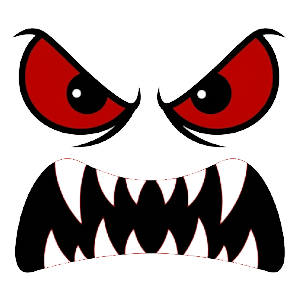
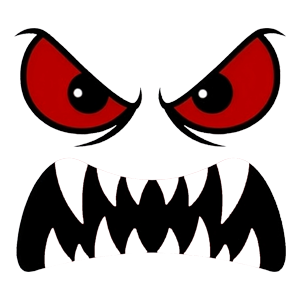
Add files via upload

diff --git a/src/Ghost.js b/src/Ghost.js
@@ -7,6 +7,7 @@ export class Ghost {
         this.cellSize = cellSize;
         this.offsetX = offsetX;
         this.offsetZ = offsetZ;
+        this.levelMap = levelMap;
         
         // Moduli delegati
         this.pathfinder = new Pathfinding(levelMap, cellSize, offsetX, offsetZ);
@@ -15,6 +16,7 @@ export class Ghost {
         this.mesh = model.mesh;
         this.faceMat = model.faceMat;
         this.textures = model.textures;
+        this.ghostMat = model.ghostMat;
         
         this.mesh.position.set(startX, 1.0, startZ);
         scene.add(this.mesh);
@@ -46,7 +48,7 @@ export class Ghost {
             this.audioNormal.setBuffer(buffer);
             this.audioNormal.setRefDistance(3);
             this.audioNormal.setLoop(true);
-            if (this.state !== 'HUNT') this.audioNormal.play();
+            if (this.state !== 'HUNT' && this.state !== 'STUNNED') this.audioNormal.play();
         });
 
         audioLoader.load('../assets/fast.mp3', (buffer) => {
@@ -66,11 +68,34 @@ export class Ghost {
         this.mesh.add(this.audioAlert);
     }
 
+    takeDamage() {
+        // Se non è già stordito, cambia lo stato
+        if (this.state !== 'STUNNED') {
+            this.changeState('STUNNED');
+        }
+    }
+
     changeState(newState) {
         if (this.state === newState) return; 
         this.state = newState;
 
-        if (this.state === 'HUNT') {
+        // Reset visivo base per tutti gli stati normali
+        this.ghostMat.color.setHex(0xffffff);
+        this.ghostMat.opacity = 1.0;
+
+        if (this.state === 'STUNNED') {
+            this.faceMat.map = this.textures.stunned;
+            this.lightColor.setHex(0x000000);
+            this.ghostMat.color.setHex(0x3366ff);
+            this.ghostMat.opacity = 0.5;
+            this.speed = this.huntSpeed;
+            
+            // Disattiva tutti i suoni che provengono dal fantasma
+            if (this.audioNormal.isPlaying) this.audioNormal.pause();
+            if (this.audioFast.isPlaying) this.audioFast.pause();
+            if (this.audioAlert.isPlaying) this.audioAlert.pause();
+
+        } else if (this.state === 'HUNT') {
             this.faceMat.map = this.textures.angry;
             this.lightColor.setHex(0xff0000); 
             this.speed = this.huntSpeed;
@@ -83,7 +108,7 @@ export class Ghost {
             this.speed = this.baseSpeed;
             if (this.audioFast.isPlaying) this.audioFast.pause();
             if (this.audioNormal.buffer && !this.audioNormal.isPlaying) this.audioNormal.play();
-        } else { 
+        } else { // PATROL
             this.faceMat.map = this.textures.normal;
             this.lightColor.setHex(0xaaffff); 
             this.speed = this.baseSpeed;
@@ -93,7 +118,9 @@ export class Ghost {
     }
 
     hearNoise(worldX, worldZ, noiseRadius) {
-        if (this.state === 'HUNT') return; 
+        // Ignora i rumori se sta cacciando o se è già stordito e sta scappando
+        if (this.state === 'HUNT' || this.state === 'STUNNED') return; 
+        
         const dist = Math.hypot(this.mesh.position.x - worldX, this.mesh.position.z - worldZ);
         if (dist <= noiseRadius) {
             this.investigateTargetGrid = this.pathfinder.getGridPos(worldX, worldZ);
@@ -115,16 +142,18 @@ export class Ghost {
         const playerGridPos = this.pathfinder.getGridPos(playerPos.x, playerPos.z);
         
         // --- 1. CONTROLLO VISIONE ---
-        const distToPlayer = this.mesh.position.distanceTo(playerPos);
-        if (distToPlayer < 20.0) {
-            const toPlayer = new THREE.Vector3().subVectors(playerPos, this.mesh.position).normalize();
-            toPlayer.y = 0; 
-            const forward = new THREE.Vector3(0, 0, -1).applyQuaternion(this.mesh.quaternion);
-            
-            if (forward.dot(toPlayer) > 0.6) { 
-                if (this.pathfinder.checkLineOfSight(gridPos.x, gridPos.z, playerGridPos.x, playerGridPos.z)) {
-                    this.lastSeenPlayerGrid = { x: playerGridPos.x, z: playerGridPos.z };
-                    this.changeState('HUNT');
+        if (this.state !== 'STUNNED') {
+            const distToPlayer = this.mesh.position.distanceTo(playerPos);
+            if (distToPlayer < 20.0) {
+                const toPlayer = new THREE.Vector3().subVectors(playerPos, this.mesh.position).normalize();
+                toPlayer.y = 0; 
+                const forward = new THREE.Vector3(0, 0, -1).applyQuaternion(this.mesh.quaternion);
+                
+                if (forward.dot(toPlayer) > 0.6) { 
+                    if (this.pathfinder.checkLineOfSight(gridPos.x, gridPos.z, playerGridPos.x, playerGridPos.z)) {
+                        this.lastSeenPlayerGrid = { x: playerGridPos.x, z: playerGridPos.z };
+                        this.changeState('HUNT');
+                    }
                 }
             }
         }
@@ -138,7 +167,23 @@ export class Ghost {
             this.lastDecisionGrid = { x: gridPos.x, z: gridPos.z };
             let decided = false;
 
-            if (this.state === 'HUNT' && this.lastSeenPlayerGrid) {
+            if (this.state === 'STUNNED') {
+                // Calcola dinamicamente il centro della mappa
+                const centerX = Math.floor(this.levelMap[0].length / 2);
+                const centerZ = Math.floor(this.levelMap.length / 2);
+
+                if (gridPos.x === centerX && gridPos.z === centerZ) {
+                    // È arrivato alla base centrale! Si riattiva istantaneamente
+                    this.changeState('PATROL');
+                    // 'decided' rimane false in modo che scelga una direzione casuale per uscire dalla stanza
+                } else {
+                    const path = this.pathfinder.findPath(gridPos.x, gridPos.z, centerX, centerZ);
+                    if (path && path.length > 0) {
+                        this.direction = path[0]; 
+                        decided = true;
+                    }
+                }
+            } else if (this.state === 'HUNT' && this.lastSeenPlayerGrid) {
                 const path = this.pathfinder.findPath(gridPos.x, gridPos.z, this.lastSeenPlayerGrid.x, this.lastSeenPlayerGrid.z);
                 if (path && path.length > 0) {
                     this.direction = path[0]; 

diff --git a/src/Weapon.js b/src/Weapon.js
@@ -1,0 +1,87 @@
+import * as THREE from 'three';
+
+export class Weapon {
+    constructor(camera, audioListener) {
+        this.camera = camera;
+        this.mesh = this.createModel();
+        this.camera.add(this.mesh);
+        this.mesh.position.set(0.3, -0.3, -0.6);
+
+        // -- Setup Raycaster per mirare --
+        this.raycaster = new THREE.Raycaster();
+        // Il centro dello schermo in coordinate normalizzate
+        this.centerScreen = new THREE.Vector2(0, 0); 
+
+        // -- Setup Audio --
+        this.shootSound = new THREE.Audio(audioListener);
+        const audioLoader = new THREE.AudioLoader();
+        audioLoader.load('../assets/shoot.mp3', (buffer) => {
+            this.shootSound.setBuffer(buffer);
+            this.shootSound.setVolume(0.5);
+        });
+
+        // -- Gestione Rateo di Fuoco --
+        this.canShoot = true;
+        this.fireRate = 1000; // 1 secondo tra un colpo e l'altro (rateo lento)
+    }
+
+    createModel() {
+        const group = new THREE.Group();
+        const material = new THREE.MeshBasicMaterial({ color: 0x222222 });
+
+        const barrelGeo = new THREE.BoxGeometry(0.1, 0.1, 0.4);
+        const barrel = new THREE.Mesh(barrelGeo, material);
+        barrel.position.z = -0.1;
+        group.add(barrel);
+
+        const handleGeo = new THREE.BoxGeometry(0.1, 0.2, 0.1);
+        const handle = new THREE.Mesh(handleGeo, material);
+        handle.position.y = -0.15;
+        handle.position.z = 0.05;
+        handle.rotation.x = Math.PI / 8;
+        group.add(handle);
+
+        return group;
+    }
+
+    shoot(ghosts) {
+        if (!this.canShoot) return;
+
+        // 1. Riproduci audio e applica cooldown
+        if (this.shootSound.isPlaying) this.shootSound.stop();
+        if (this.shootSound.buffer) this.shootSound.play();
+        
+        this.canShoot = false;
+        setTimeout(() => { this.canShoot = true; }, this.fireRate);
+
+        // 2. Anima leggermente l'arma per il rinculo
+        this.mesh.position.z += 0.1;
+        this.mesh.rotation.x += 0.1;
+        setTimeout(() => { 
+            this.mesh.position.z -= 0.1; 
+            this.mesh.rotation.x -= 0.1; 
+        }, 100);
+
+        // 3. Raycasting: Controlla se abbiamo colpito un fantasma
+        this.raycaster.setFromCamera(this.centerScreen, this.camera);
+        
+        // Estraiamo le mesh dei fantasmi per il raycaster
+        const ghostMeshes = ghosts.map(g => g.mesh);
+        const intersects = this.raycaster.intersectObjects(ghostMeshes, true);
+
+        if (intersects.length > 0) {
+            const hitMesh = intersects[0].object;
+            const hitGhost = ghosts.find(g => g.mesh === hitMesh || g.mesh.children.includes(hitMesh));
+            
+            if (hitGhost) {
+                console.log("Fantasma colpito e stordito!");
+                hitGhost.takeDamage();
+            }
+        }
+
+        // 4. PROPAGAZIONE DEL RUMORE
+        ghosts.forEach(ghost => {
+            ghost.hearNoise(this.camera.position.x, this.camera.position.z, 100.0);
+        });
+    }
+}

diff --git a/src/GhostModel.js b/src/GhostModel.js
@@ -2,7 +2,12 @@ import * as THREE from 'three';
 
 export function createGhostMesh() {
     const mesh = new THREE.Group();
-    const ghostMat = new THREE.MeshBasicMaterial({ color: 0xffffff });
+    
+    const ghostMat = new THREE.MeshBasicMaterial({ 
+        color: 0xffffff,
+        transparent: true,
+        opacity: 1.0
+    });
     
     // Testa
     const headGeo = new THREE.SphereGeometry(0.5, 32, 8, 0, Math.PI * 2, 0, Math.PI / 2);
@@ -25,7 +30,6 @@ export function createGhostMesh() {
         }
     }
     
-    // 2. Diciamo a Three.js di aggiornare la geometria dopo averla alterata a mano
     posAttribute.needsUpdate = true;
     bodyGeo.computeVertexNormals();
     
@@ -37,7 +41,8 @@ export function createGhostMesh() {
     const textures = {
         normal: textureLoader.load('../assets/normal.png'),
         curious: textureLoader.load('../assets/curious.png'),
-        angry: textureLoader.load('../assets/angry.png')
+        angry: textureLoader.load('../assets/angry.png'),
+        stunned: textureLoader.load('../assets/stunned.png')
     };
     
     const faceGeo = new THREE.PlaneGeometry(0.6, 0.6);
@@ -52,5 +57,5 @@ export function createGhostMesh() {
     face.rotation.y = Math.PI; 
     mesh.add(face);
 
-    return { mesh, faceMat, textures };
+    return { mesh, faceMat, textures, ghostMat }; 
 }

diff --git a/src/Player.js b/src/Player.js
@@ -19,7 +19,13 @@ export class Player {
         const instructions = document.getElementById('instructions');
         
         document.body.addEventListener('click', () => { 
-            if (!this.renderer.xr.isPresenting) this.controls.lock(); 
+            if (!this.renderer.xr.isPresenting) {
+                if (!this.controls.isLocked) {
+                    this.controls.lock();
+                } else if (this.weapon) {
+                    this.isShooting = true; 
+                }
+            } 
         });
         
         this.controls.addEventListener('lock', () => instructions.style.display = 'none');
@@ -53,7 +59,12 @@ export class Player {
         return false;
     }
 
-    update(delta) {
+    update(delta, ghosts) {
+        if (this.isShooting && this.weapon) {
+            this.weapon.shoot(ghosts);
+            this.isShooting = false;
+        }
+
         if (!this.renderer.xr.isPresenting && this.controls.isLocked) {
             this.direction.z = Number(this.moveState.forward) - Number(this.moveState.backward);
             this.direction.x = Number(this.moveState.right) - Number(this.moveState.left);

diff --git a/src/main.js b/src/main.js
@@ -6,6 +6,7 @@ import { CONFIG, OFFSET } from './config.js';
 import { Environment } from './Environment.js';
 import { CoinManager } from './CoinManager.js';
 import { Player } from './Player.js';
+import { Weapon } from './Weapon.js';
 
 // --- SETUP BASE ---
 const scene = new THREE.Scene();
@@ -42,8 +43,11 @@ audioLoader.load('../assets/chase.mp3', (buffer) => {
 const levelMap = generateMaze(CONFIG.MAP_SIZE, CONFIG.MAP_SIZE);
 const environment = new Environment(scene, levelMap);
 
-// --- SPAWN GIOCATORE (tramite classe isolata) ---
+// --- SPAWN GIOCATORE ---
 const player = new Player(camera, renderer, levelMap);
+const weapon = new Weapon(camera, audioListener); 
+player.weapon = weapon;
+scene.add(camera);
 let spawned = false;
 for (let z = levelMap.length - 2; z > 0; z--) {
     for (let x = 1; x < levelMap[z].length; x++) {
@@ -76,7 +80,7 @@ const clock = new THREE.Clock();
 function animate() {
     const delta = clock.getDelta();
 
-    player.update(delta);
+    player.update(delta, ghosts);
     coinManager.update(delta, camera.position);
 
     environment.shaderUniforms.u_playerPosition.value.copy(camera.position);
